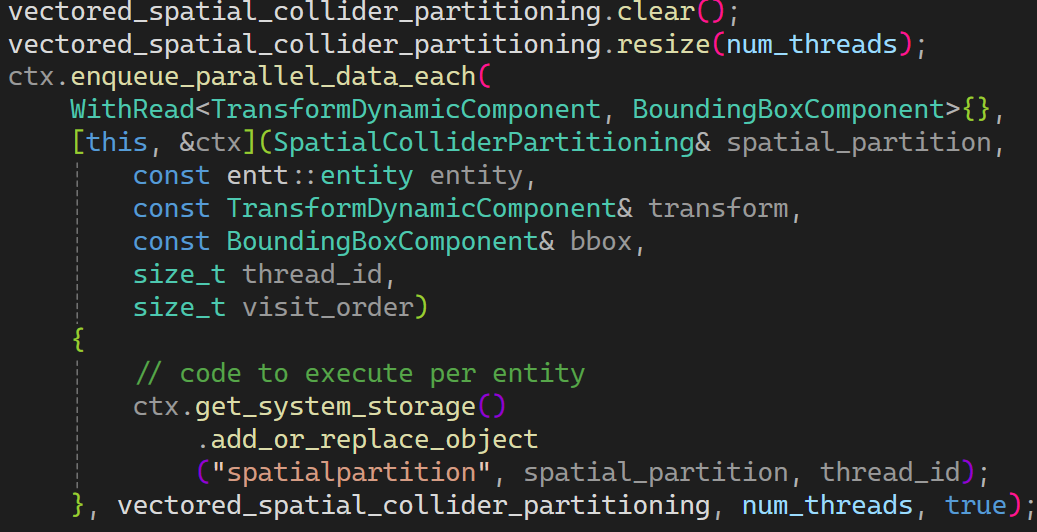
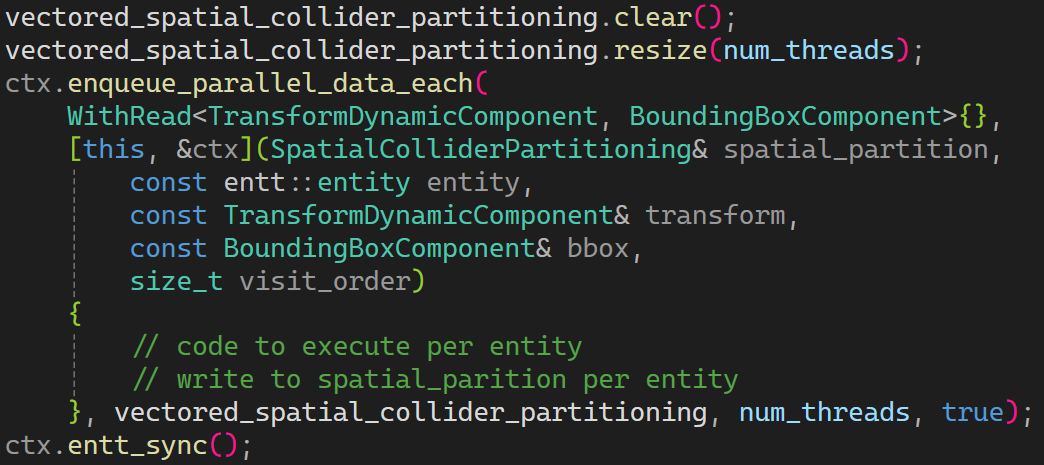
last minute

Changed region(s): [[0.0, 0.0, 0.9566, 0.6323], [0.0, 0.6624, 1.0, 0.9935], [0.0617, 0.6022, 0.0926, 0.6925]]

diff --git a/.svelte-kit/ambient.d.ts b/.svelte-kit/ambient.d.ts
@@ -29,25 +29,24 @@ declare module '$env/static/private' {
 	export const ALLUSERSPROFILE: string;
 	export const AMDRMPATH: string;
 	export const APPDATA: string;
-	export const CHROME_CRASHPAD_PIPE_NAME: string;
 	export const COLOR: string;
-	export const COLORTERM: string;
 	export const CommonProgramFiles: string;
 	export const CommonProgramW6432: string;
 	export const COMPUTERNAME: string;
 	export const ComSpec: string;
+	export const CUDA_PATH: string;
+	export const CUDA_PATH_V11_8: string;
 	export const DriverData: string;
 	export const EDITOR: string;
 	export const FPS_BROWSER_APP_PROFILE_STRING: string;
 	export const FPS_BROWSER_USER_PROFILE_STRING: string;
-	export const GIT_ASKPASS: string;
 	export const HOME: string;
 	export const HOMEDRIVE: string;
 	export const HOMEPATH: string;
 	export const INIT_CWD: string;
-	export const LANG: string;
+	export const JD2_HOME: string;
+	export const KSP2DIR: string;
 	export const LOCALAPPDATA: string;
-	export const LOCAL_GIT_DIRECTORY: string;
 	export const LOGONSERVER: string;
 	export const NODE: string;
 	export const NODE_ENV: string;
@@ -73,12 +72,11 @@ declare module '$env/static/private' {
 	export const npm_package_json: string;
 	export const npm_package_name: string;
 	export const npm_package_version: string;
+	export const NPM_PREFIX_JS: string;
 	export const NPM_PREFIX_NPM_CLI_JS: string;
 	export const NUMBER_OF_PROCESSORS: string;
+	export const NVTOOLSEXT_PATH: string;
 	export const OneDrive: string;
-	export const OneDriveCommercial: string;
-	export const OneDriveConsumer: string;
-	export const ORIGINAL_XDG_CURRENT_DESKTOP: string;
 	export const OS: string;
 	export const Path: string;
 	export const PATHEXT: string;
@@ -96,22 +94,14 @@ declare module '$env/static/private' {
 	export const SystemDrive: string;
 	export const SystemRoot: string;
 	export const TEMP: string;
-	export const TERM_PROGRAM: string;
-	export const TERM_PROGRAM_VERSION: string;
 	export const TMP: string;
 	export const USERDOMAIN: string;
 	export const USERDOMAIN_ROAMINGPROFILE: string;
 	export const USERNAME: string;
 	export const USERPROFILE: string;
-	export const VSCODE_A11Y_MODE: string;
-	export const VSCODE_GIT_ASKPASS_EXTRA_ARGS: string;
-	export const VSCODE_GIT_ASKPASS_MAIN: string;
-	export const VSCODE_GIT_ASKPASS_NODE: string;
-	export const VSCODE_GIT_IPC_HANDLE: string;
-	export const VSCODE_INJECTION: string;
-	export const VSCODE_NONCE: string;
-	export const VSCODE_STABLE: string;
+	export const VBOX_MSI_INSTALL_PATH: string;
 	export const windir: string;
+	export const __PSLockDownPolicy: string;
 }
 
 /**
@@ -144,25 +134,24 @@ declare module '$env/dynamic/private' {
 		ALLUSERSPROFILE: string;
 		AMDRMPATH: string;
 		APPDATA: string;
-		CHROME_CRASHPAD_PIPE_NAME: string;
 		COLOR: string;
-		COLORTERM: string;
 		CommonProgramFiles: string;
 		CommonProgramW6432: string;
 		COMPUTERNAME: string;
 		ComSpec: string;
+		CUDA_PATH: string;
+		CUDA_PATH_V11_8: string;
 		DriverData: string;
 		EDITOR: string;
 		FPS_BROWSER_APP_PROFILE_STRING: string;
 		FPS_BROWSER_USER_PROFILE_STRING: string;
-		GIT_ASKPASS: string;
 		HOME: string;
 		HOMEDRIVE: string;
 		HOMEPATH: string;
 		INIT_CWD: string;
-		LANG: string;
+		JD2_HOME: string;
+		KSP2DIR: string;
 		LOCALAPPDATA: string;
-		LOCAL_GIT_DIRECTORY: string;
 		LOGONSERVER: string;
 		NODE: string;
 		NODE_ENV: string;
@@ -188,12 +177,11 @@ declare module '$env/dynamic/private' {
 		npm_package_json: string;
 		npm_package_name: string;
 		npm_package_version: string;
+		NPM_PREFIX_JS: string;
 		NPM_PREFIX_NPM_CLI_JS: string;
 		NUMBER_OF_PROCESSORS: string;
+		NVTOOLSEXT_PATH: string;
 		OneDrive: string;
-		OneDriveCommercial: string;
-		OneDriveConsumer: string;
-		ORIGINAL_XDG_CURRENT_DESKTOP: string;
 		OS: string;
 		Path: string;
 		PATHEXT: string;
@@ -211,22 +199,14 @@ declare module '$env/dynamic/private' {
 		SystemDrive: string;
 		SystemRoot: string;
 		TEMP: string;
-		TERM_PROGRAM: string;
-		TERM_PROGRAM_VERSION: string;
 		TMP: string;
 		USERDOMAIN: string;
 		USERDOMAIN_ROAMINGPROFILE: string;
 		USERNAME: string;
 		USERPROFILE: string;
-		VSCODE_A11Y_MODE: string;
-		VSCODE_GIT_ASKPASS_EXTRA_ARGS: string;
-		VSCODE_GIT_ASKPASS_MAIN: string;
-		VSCODE_GIT_ASKPASS_NODE: string;
-		VSCODE_GIT_IPC_HANDLE: string;
-		VSCODE_INJECTION: string;
-		VSCODE_NONCE: string;
-		VSCODE_STABLE: string;
+		VBOX_MSI_INSTALL_PATH: string;
 		windir: string;
+		__PSLockDownPolicy: string;
 		[key: `PUBLIC_${string}`]: undefined;
 		[key: `${string}`]: string | undefined;
 	}

diff --git a/src/lib/data/projects.js b/src/lib/data/projects.js
@@ -2,7 +2,6 @@ export const about = {
   title: "Hi, I'm Elin!",
   content:
     "I obtained my bachelor degree in Mathematics at Umeå University, however, I started my studies in Skövde Högskola, with their \"Datavetenskap\"-program. When I studied single variable calculus and linear algebra, as extra courses, I realized just how useful mathematics would be for making games. With the realization, I started studiying at Umeå University for a Bachelors degree in Mathematics instead, with the addition of some computer science courses. Now I'm studying game programming at futuregames to get into the industry. I'm a generally curious person, and I enjoy problem solving and optimization.",
-  image: "",
 };
 
 export const contact = {
